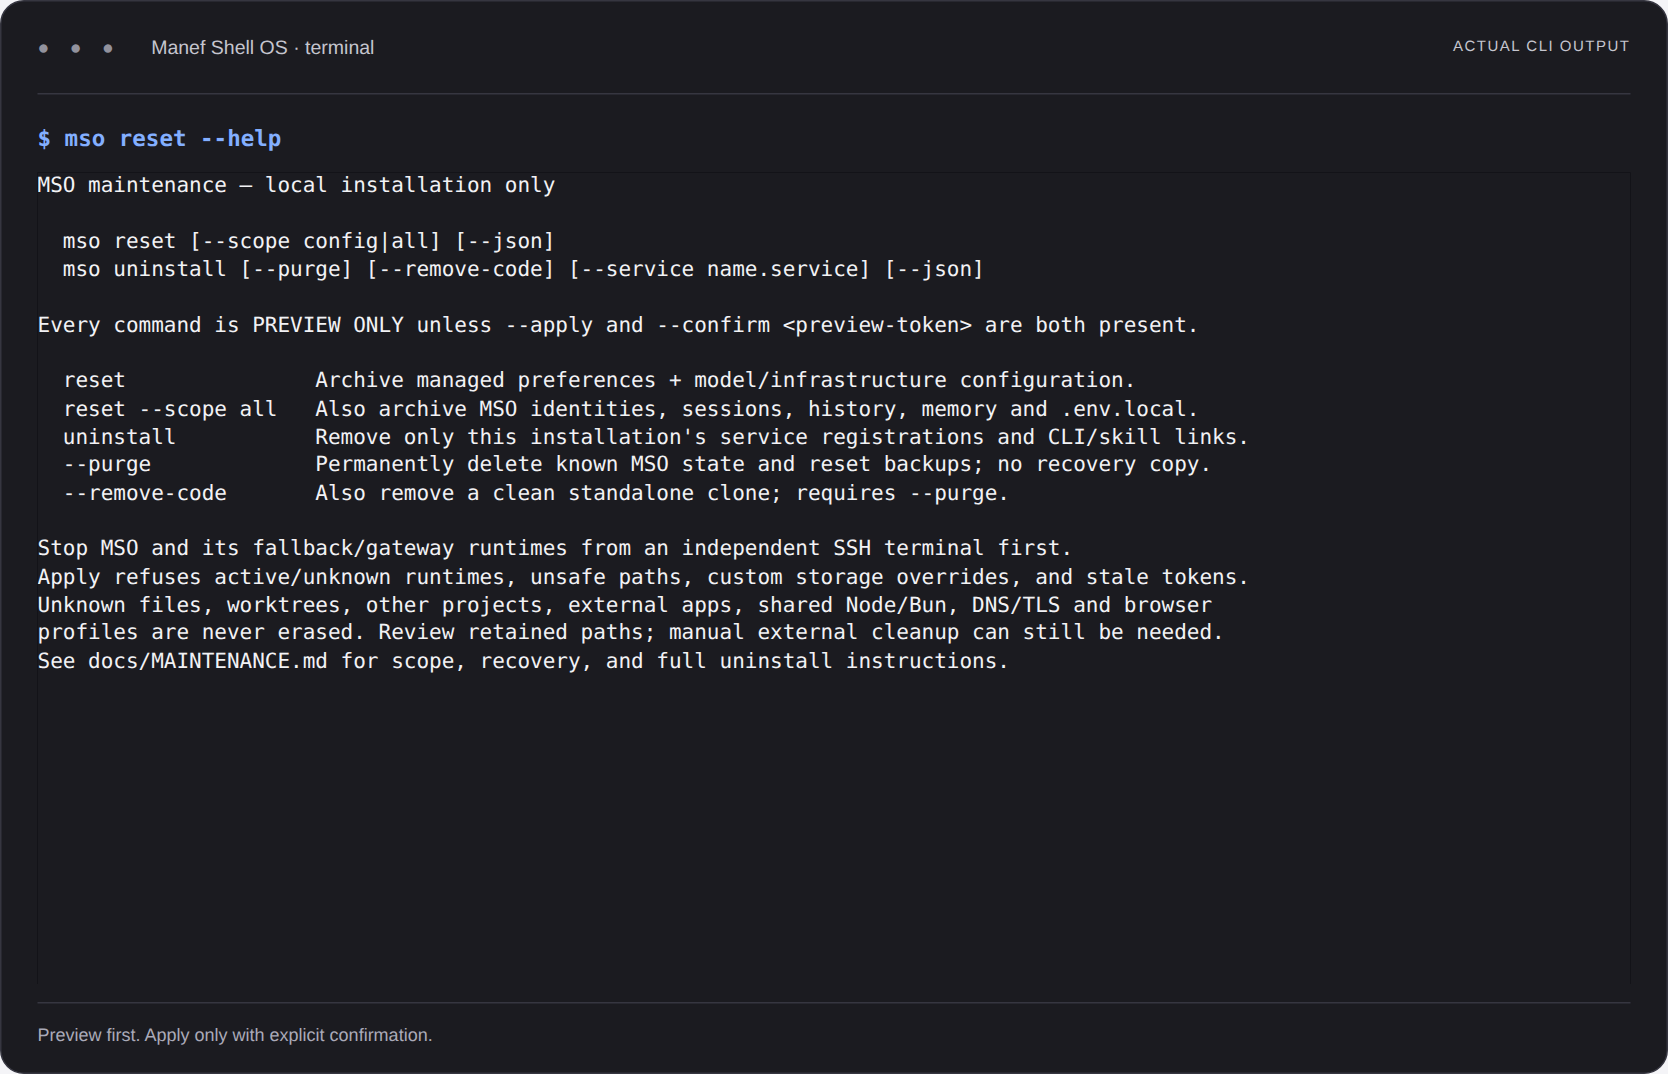
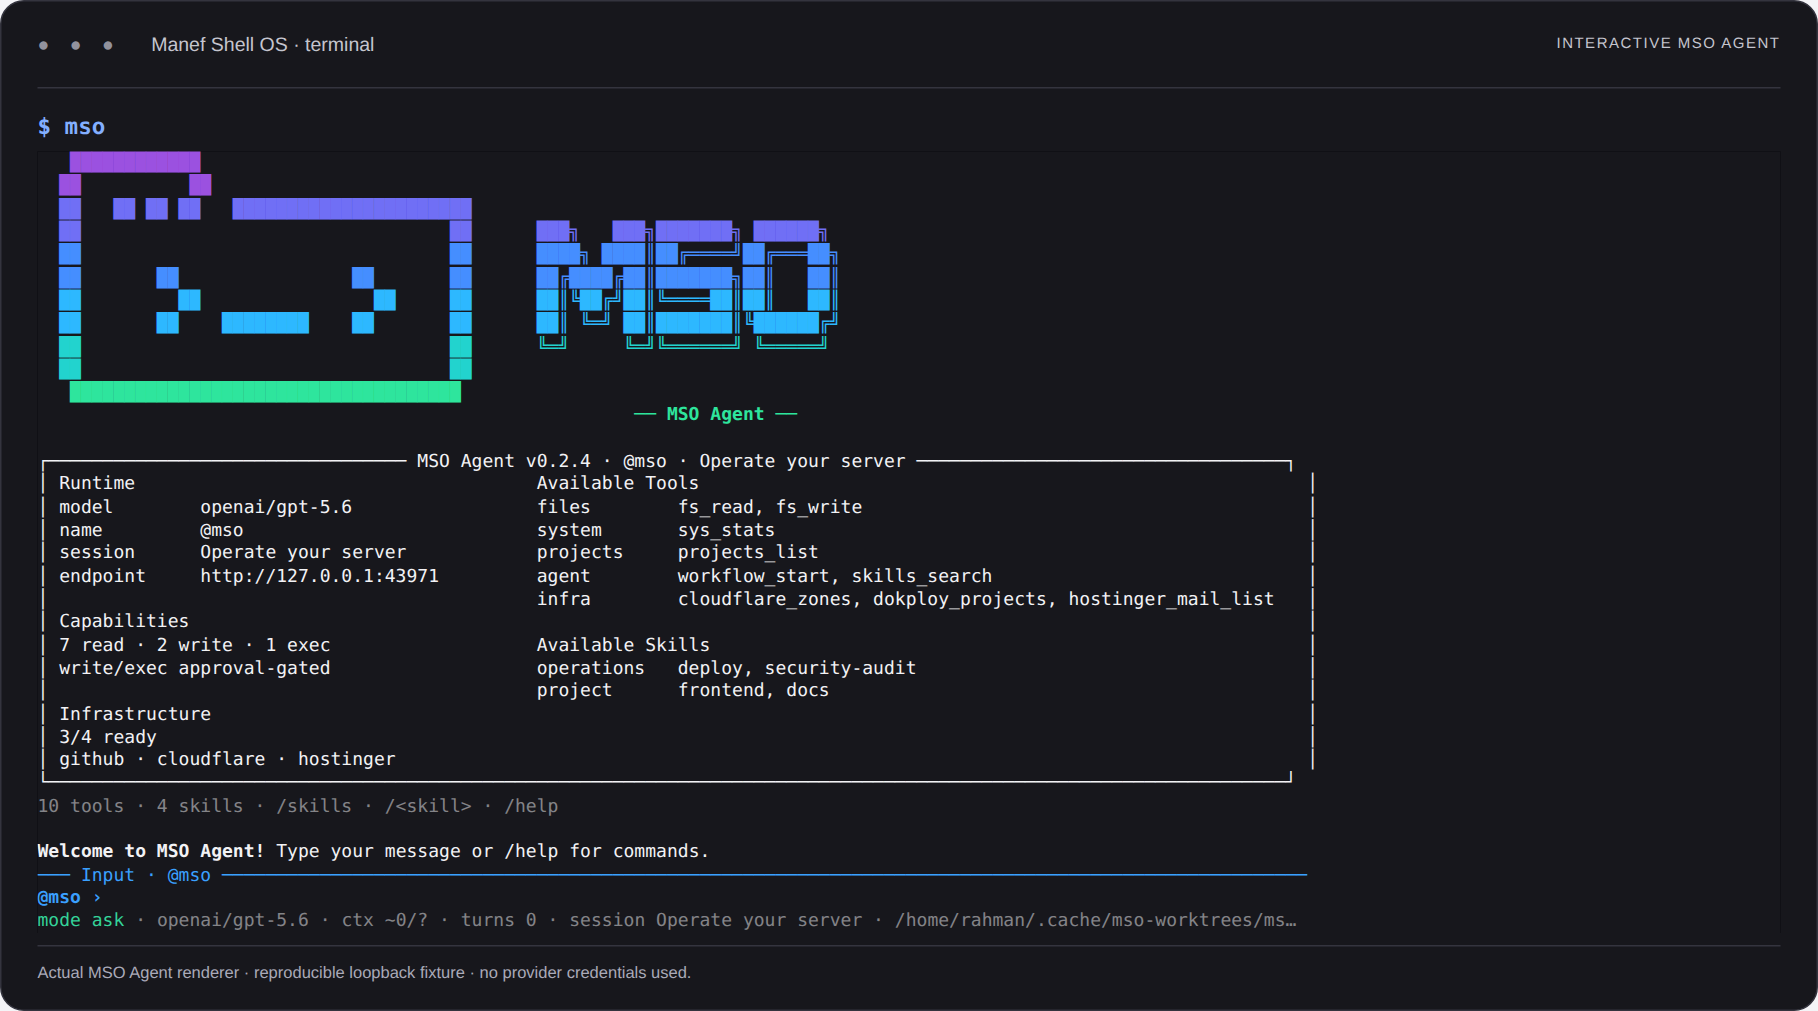
docs: show the interactive mso terminal in README

diff --git a/scripts/readme-media.test.ts b/scripts/readme-media.test.ts
@@ -5,6 +5,7 @@ import { describe, expect, it } from "vitest";
 
 const root = process.cwd();
 const readme = readFileSync(path.join(root, "README.md"), "utf8");
+const capture = readFileSync(path.join(root, "scripts/capture-cli.mjs"), "utf8");
 describe("README demonstration contract", () => {
   it("embeds the animation, not only a text link to it", () => {
     expect(readme).toMatch(/!\[[^\]]*\]\(\.\/docs\/media\/demo\.gif\)/);
@@ -14,7 +15,15 @@ describe("README demonstration contract", () => {
     const gif = await sharp(path.join(root, "docs/media/demo.gif"), { animated: true }).metadata();
     expect(gif.format).toBe("gif"); expect(gif.pages).toBeGreaterThan(1);
     const cli = await sharp(path.join(root, "docs/media/mso-cli.webp")).metadata();
-    expect(cli.format).toBe("webp"); expect(cli.width).toBeGreaterThan(600);
+    expect(cli.format).toBe("webp"); expect(cli.width).toBeGreaterThan(600); expect(cli.height).toBeGreaterThan(600);
+  });
+  it("captures the interactive mso Agent rather than a help screen", () => {
+    expect(capture).toContain("scripts/mso-agent.mjs");
+    expect(capture).toContain("INTERACTIVE MSO AGENT");
+    expect(capture).toContain("$ mso");
+    expect(capture).not.toContain('reset", "--help');
+    expect(capture).not.toContain("$ mso reset --help");
+    expect(readme).toContain("Interactive `mso` Agent terminal");
   });
   it("keeps the landing README bounded and links rather than hides safety evidence", () => {
     expect(readme.split("\n").length).toBeLessThanOrEqual(150);

diff --git a/docs/CHANGELOG.md b/docs/CHANGELOG.md
@@ -44,11 +44,13 @@ this is the *what*, and it is what Settings → About shows as “What's new”.
 
 **Docs**
 
+- show the interactive mso terminal in README
 - restore inline demo and lead with agent capabilities
 - `mcp` document service tokens and update reconciliation
 
 **Chores**
 
+- `security` expose sanitized alert annotations
 - release security and visual documentation fixes as app 0.2.4
 
 ## 2026-09-04

diff --git a/README.md b/README.md
@@ -12,7 +12,7 @@
 
 | Your server, visually | Your tools, in the terminal |
 |---|---|
-| ![MSO desktop and mobile workspace](./docs/media/mso-hero.webp) | ![Actual MSO CLI capture](./docs/media/mso-cli.webp) |
+| ![MSO desktop and mobile workspace](./docs/media/mso-hero.webp) | ![Interactive `mso` Agent terminal](./docs/media/mso-cli.webp) |
 
 ## More than an AI chat window
 
